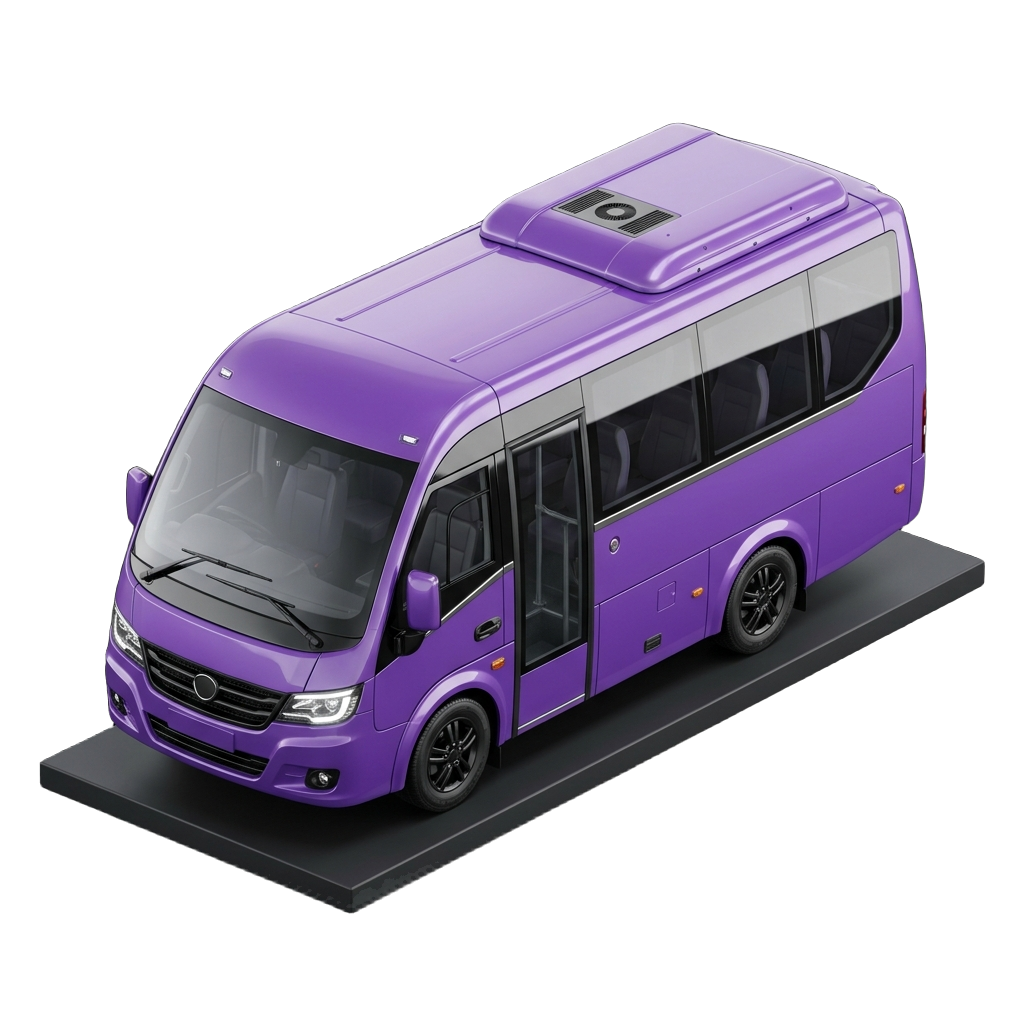
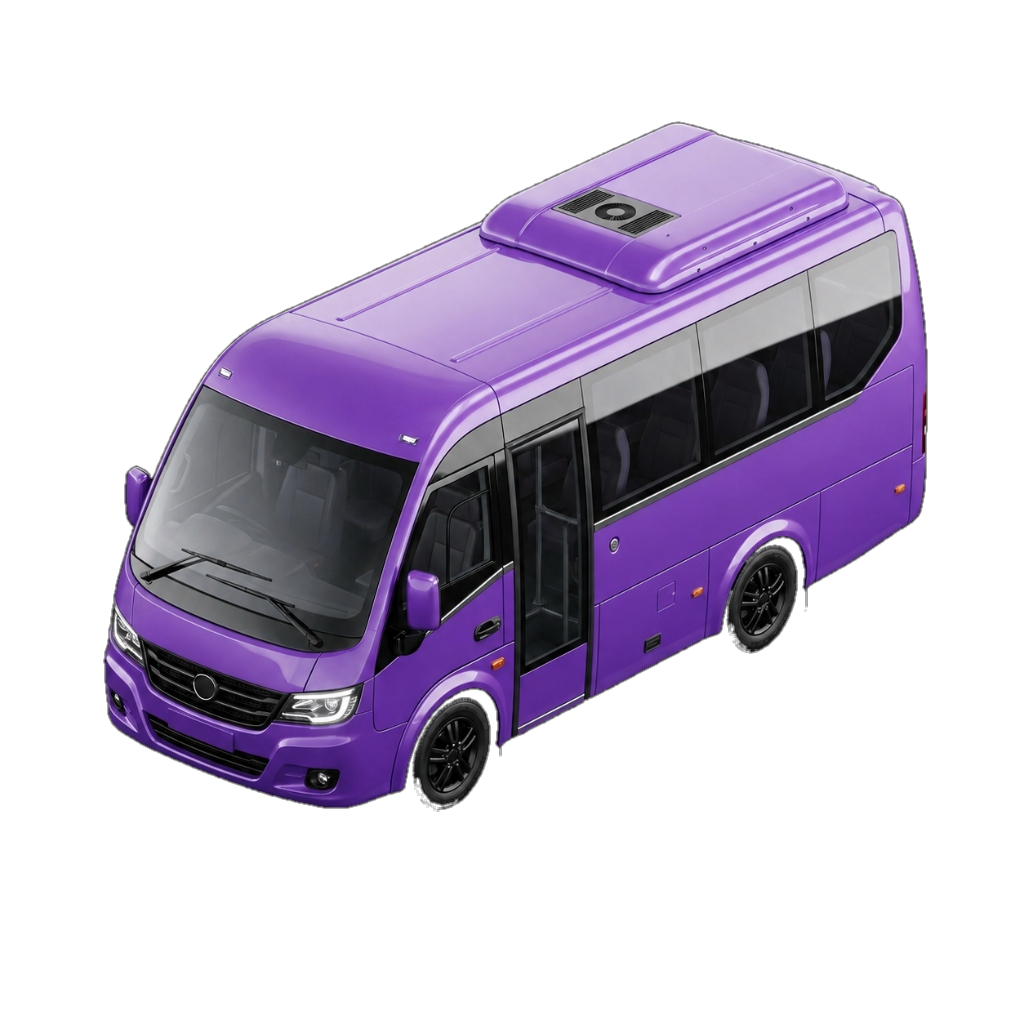
feat: update minibus image, premium full-screen loader, loading GIF, mobile layout, and contact details

diff --git a/src/shared/ui/Loader.tsx b/src/shared/ui/Loader.tsx
@@ -1,5 +1,6 @@
 import * as React from 'react';
 import { cn } from '../utils/cn';
+import appLoaderCar from '../../assets/app_loader_car.png';
 
 export interface LoaderProps {
   size?: 'sm' | 'md' | 'lg';
@@ -27,8 +28,84 @@ export const Loader: React.FC<LoaderProps> = ({
     );
   }
 
-  // Otherwise, we return null to remove the large system loader
-  return null;
+  // Full page loader
+  if (fullPage) {
+    return (
+      <div
+        className={cn(
+          'fixed inset-0 z-50 flex flex-col items-center justify-center bg-black text-white select-none',
+          className
+        )}
+        role="status"
+        aria-label="Loading application"
+        data-testid="full-page-loader"
+      >
+        {/* Ambient background glow matching the red car outline */}
+        <div className="absolute inset-0 overflow-hidden pointer-events-none">
+          <div className="absolute top-1/2 left-1/2 -translate-x-1/2 -translate-y-1/2 w-[500px] h-[500px] rounded-full bg-red-500/5 blur-[120px] animate-pulse duration-[3000ms]" />
+          <div className="absolute top-1/2 left-1/2 -translate-x-1/2 -translate-y-1/2 w-[300px] h-[300px] rounded-full bg-brand-500/5 blur-[80px]" />
+        </div>
+
+        {/* Loader content container */}
+        <div className="relative z-10 flex flex-col items-center max-w-sm px-6 text-center space-y-8">
+          {/* Glowing/pulsing car silhouette */}
+          <div className="relative w-72 h-40 flex items-center justify-center">
+            {/* Ambient red pulse shadow behind the car */}
+            <div className="absolute inset-x-4 inset-y-8 bg-red-500/10 rounded-full blur-3xl animate-pulse duration-[2000ms]" />
+            
+            {/* The car image */}
+            <img
+              src={appLoaderCar}
+              alt="Strive Wheels Loading"
+              className="relative w-full h-auto object-contain animate-pulse duration-1000"
+            />
+          </div>
+
+          {/* Loading information */}
+          <div className="space-y-2">
+            <h2 className="text-xl font-extrabold tracking-[0.2em] text-transparent bg-clip-text bg-gradient-to-r from-white via-slate-100 to-white uppercase">
+              Strive Wheels
+            </h2>
+            <div className="flex items-center justify-center gap-1.5 text-xs text-red-500 font-semibold tracking-[0.15em] uppercase">
+              <span className="inline-block w-1.5 h-1.5 rounded-full bg-red-500 animate-ping" />
+              Redefining Corporate Mobility
+            </div>
+          </div>
+
+          {/* Sleek, thin progress loader bar */}
+          <div className="w-48 h-1 bg-slate-900 rounded-full overflow-hidden relative">
+            <div className="absolute top-0 bottom-0 left-0 w-full bg-gradient-to-r from-transparent via-red-500 to-transparent rounded-full animate-loading-bar" />
+          </div>
+        </div>
+      </div>
+    );
+  }
+
+  // Large standard/inline loader (if fullPage is false but size is md/lg)
+  return (
+    <div
+      className={cn(
+        'flex flex-col items-center justify-center p-8 space-y-4',
+        className
+      )}
+      role="status"
+      aria-label="Loading content"
+      data-testid="inline-loader"
+    >
+      <div className="relative w-36 h-20 flex items-center justify-center">
+        <div className="absolute inset-0 bg-red-500/5 rounded-full blur-xl animate-pulse" />
+        <img
+          src={appLoaderCar}
+          alt="Loading"
+          className="relative w-full h-auto object-contain animate-pulse"
+        />
+      </div>
+      <div className="w-24 h-1 bg-slate-900 rounded-full overflow-hidden relative">
+        <div className="absolute top-0 bottom-0 left-0 w-full bg-red-500 rounded-full animate-loading-bar" />
+      </div>
+    </div>
+  );
 };
 
 export default Loader;
+

diff --git a/src/features/home/components/FleetServices.tsx b/src/features/home/components/FleetServices.tsx
@@ -230,41 +230,7 @@ const MolecularCanvas: React.FC<{ color: string }> = ({ color }) => {
   );
 };
 
-/* ─────────────────────────────────────────────────────────────
-   Sidebar Navigation Dots
-───────────────────────────────────────────────────────────── */
-const SideNav: React.FC<{ activeIdx: number; count: number; onDot: (i: number) => void }> = ({
-  activeIdx,
-  count,
-  onDot,
-}) => (
-  <div className="fixed right-6 top-1/2 -translate-y-1/2 z-50 flex flex-col items-center gap-3 hidden lg:flex">
-    {Array.from({ length: count }).map((_, i) => {
-      const svc  = fleetServices[i];
-      const isAc = i === activeIdx;
-      return (
-        <button
-          key={i}
-          onClick={() => onDot(i)}
-          title={svc.title}
-          className="relative flex items-center justify-center transition-all duration-300"
-          style={{ width: 14, height: 14 }}
-        >
-          <span
-            className="rounded-full transition-all duration-300"
-            style={{
-              width:  isAc ? 12 : 6,
-              height: isAc ? 12 : 6,
-              background: isAc ? svc.accentHex : '#475569',
-              boxShadow: isAc ? `0 0 8px ${svc.accentHex}` : 'none',
-              display: 'block',
-            }}
-          />
-        </button>
-      );
-    })}
-  </div>
-);
+
 
 /* ─────────────────────────────────────────────────────────────
    Single Service Screen
@@ -293,8 +259,7 @@ const ServiceScreen = React.forwardRef<
   return (
     <div
       ref={innerRef}
-      className="relative flex items-center bg-slate-950 overflow-hidden"
-      style={{ height: '100vh' }}
+      className="relative flex items-center bg-slate-950 overflow-hidden py-16 lg:py-0 min-h-screen lg:h-screen"
     >
       {/* ── Molecular canvas ── */}
       <MolecularCanvas color={service.accentHex} />
@@ -341,7 +306,7 @@ const ServiceScreen = React.forwardRef<
 
       {/* ── Content ── */}
       <div className="relative z-10 w-full max-w-7xl mx-auto px-6 lg:px-12 pt-20 lg:pt-0">
-        <div className={`flex flex-col lg:flex-row items-center gap-10 lg:gap-20 ${isEven ? '' : 'lg:flex-row-reverse'}`}>
+        <div className={`flex flex-col-reverse lg:flex-row items-center gap-10 lg:gap-20 ${isEven ? '' : 'lg:flex-row-reverse'}`}>
 
           {/* TEXT */}
           <div
@@ -440,7 +405,7 @@ const ServiceScreen = React.forwardRef<
       {!isLast && (
         <button
           onClick={onNext}
-          className="absolute bottom-6 left-1/2 -translate-x-1/2 flex flex-col items-center gap-1 opacity-40 hover:opacity-80 transition-opacity"
+          className="absolute bottom-6 left-1/2 -translate-x-1/2 hidden lg:flex flex-col items-center gap-1 opacity-40 hover:opacity-80 transition-opacity"
         >
           <span className="text-[10px] text-slate-400 tracking-widest uppercase">Next</span>
           <ChevronDown className="h-4 w-4 text-slate-400 animate-bounce" />
@@ -456,24 +421,7 @@ ServiceScreen.displayName = 'ServiceScreen';
 ───────────────────────────────────────────────────────────── */
 export const FleetServices: React.FC = () => {
   const slideRefs = React.useRef<(HTMLDivElement | null)[]>([]);
-  const [activeIdx, setActiveIdx] = React.useState(0);
 
-  /* Track active slide using global window scroll */
-  React.useEffect(() => {
-    const onScroll = () => {
-      const mid = window.scrollY + window.innerHeight / 2;
-      let closest = 0;
-      slideRefs.current.forEach((el, i) => {
-        if (!el) return;
-        const top = el.getBoundingClientRect().top + window.scrollY;
-        const bot = top + el.offsetHeight;
-        if (mid >= top && mid < bot) closest = i;
-      });
-      setActiveIdx(closest);
-    };
-    window.addEventListener('scroll', onScroll, { passive: true });
-    return () => window.removeEventListener('scroll', onScroll);
-  }, []);
 
   const scrollTo = (idx: number) => {
     const el = slideRefs.current[idx];
@@ -483,8 +431,6 @@ export const FleetServices: React.FC = () => {
 
   return (
     <>
-      {/* Side navigation dots — fixed to viewport */}
-      <SideNav activeIdx={activeIdx} count={fleetServices.length} onDot={scrollTo} />
 
       <section
         id="fleet-services"

diff --git a/src/features/home/components/BookingSearchForm.tsx b/src/features/home/components/BookingSearchForm.tsx
@@ -2,7 +2,7 @@ import * as React from 'react';
 import { useForm } from 'react-hook-form';
 import { zodResolver } from '@hookform/resolvers/zod';
 import * as z from 'zod';
-import { MapPin, Calendar, Clock, Search, Check, Bus, Car, ChevronLeft, ChevronDown } from 'lucide-react';
+import { MapPin, Calendar, Clock, Search, Check, Bus, Car, ChevronRight, ChevronDown } from 'lucide-react';
 import { Card } from '../../../shared/ui/Card';
 import { Button } from '../../../shared/ui/Button';
 import { cn } from '../../../shared/utils/cn';
@@ -10,7 +10,7 @@ import { cn } from '../../../shared/utils/cn';
 const bookingSchema = z.object({
   pickupLocation: z.string().min(2, 'Pick-up location is required'),
   dropLocation: z.string().min(2, 'Drop-off location is required'),
-  pickupDate: z.string().min(1, 'Pick-up date is required'),
+  pickupDate: z.string().min(1, 'date is required'),
   pickupTime: z.string().min(1, 'Pick-up time is required'),
   rideType: z.string(),
   vehicleType: z.string(),
@@ -110,7 +110,7 @@ export const BookingSearchForm: React.FC = () => {
         </div>
 
         <form onSubmit={handleSubmit(onSubmit)} noValidate className="space-y-6">
-          <div className="grid grid-cols-1 md:grid-cols-2 lg:grid-cols-4 gap-6 items-end">
+          <div className="grid grid-cols-1 md:grid-cols-2 lg:grid-cols-3 gap-6 items-end">
             {/* Pick-up Location */}
             <div className="flex flex-col gap-1.5">
               <label
@@ -161,7 +161,7 @@ export const BookingSearchForm: React.FC = () => {
               )}
             </div>
 
-            {/* Pick-Up Date & Time */}
+            {/* Date & Time */}
             <div className="grid grid-cols-2 gap-4">
               <div className="flex flex-col gap-1.5">
                 <label
@@ -169,7 +169,7 @@ export const BookingSearchForm: React.FC = () => {
                   className="text-xs font-semibold uppercase tracking-wider text-slate-400 flex items-center gap-1.5"
                 >
                   <Calendar className="h-3.5 w-3.5 text-brand-500" />
-                  {activeRideType === 'Corporate Sync' ? 'Start Date' : 'Pick-Up Date'}
+                  {activeRideType === 'Corporate Sync' ? 'Start Date' : 'Date'}
                 </label>
                 <input
                   id="pickupDate"
@@ -225,7 +225,7 @@ export const BookingSearchForm: React.FC = () => {
 
                 {/* Main Dropdown Popover */}
                 {isOpen && (
-                  <div className="absolute left-0 mt-2 w-64 rounded-lg border border-slate-800 bg-slate-950/95 backdrop-blur-md py-1 shadow-2xl z-50 text-sm">
+                  <div className="absolute left-0 bottom-full mb-2 w-full min-w-[240px] md:w-64 md:max-h-none max-h-[300px] md:overflow-visible overflow-y-auto rounded-lg border border-slate-800 bg-slate-950 py-1 shadow-2xl z-50 text-sm">
                     {/* Header */}
                     <div className="px-3 py-1.5 text-xs font-semibold text-slate-500 uppercase tracking-wider border-b border-slate-900 mb-1">
                       Choose Vehicle Class:
@@ -262,12 +262,12 @@ export const BookingSearchForm: React.FC = () => {
                         )}
                       >
                         <span>Tempo Traveler</span>
-                        <ChevronLeft className="h-4 w-4 text-slate-500" />
+                        <ChevronRight className="h-4 w-4 text-slate-500" />
                       </button>
 
                       {/* Sub-menu (Flyout on desktop, Accordion on mobile) */}
                       {isSubOpen && (
-                        <div className="absolute top-0 right-full mr-1 w-60 rounded-lg border border-slate-800 bg-slate-950/95 backdrop-blur-md py-1 shadow-2xl z-50 transition-all duration-200">
+                        <div className="transition-all duration-200 z-50 text-sm md:absolute md:top-0 md:left-full md:ml-1 md:w-60 md:rounded-lg md:border md:border-slate-800 md:bg-slate-950 md:py-1 md:shadow-2xl w-full relative bg-slate-900/40 border-none shadow-none rounded-none py-0 pl-2">
                           {['12', '13', '14', '15', '16'].map((seats) => {
                             const val = `Tempo Traveler with ${seats} seater`;
                             const isSelected = watch('vehicleType') === val;
@@ -285,7 +285,7 @@ export const BookingSearchForm: React.FC = () => {
                                   isSelected && "bg-brand-500 text-slate-950 font-bold"
                                 )}
                               >
-                                {val}
+                                {seats} Seater
                               </button>
                             );
                           })}

diff --git a/src/features/home/components/ContactSection.tsx b/src/features/home/components/ContactSection.tsx
@@ -94,8 +94,8 @@ export const ContactSection: React.FC = () => {
                 </div>
                 <div className="space-y-1">
                   <h4 className="text-sm font-bold text-white uppercase tracking-wider">Operational Hours</h4>
-                  <p className="text-xs text-slate-400">24/7 Client Shift Support</p>
-                  <p className="text-[10px] text-slate-500 font-semibold">Office: 09:00 AM - 06:00 PM</p>
+                  <p className="text-xs text-slate-400">24/7 Call Support</p>
+                  <p className="text-[10px] text-slate-500 font-semibold">Office: 08:00 AM - 08:00 PM (08-08)</p>
                 </div>
               </div>
 
@@ -107,7 +107,7 @@ export const ContactSection: React.FC = () => {
                 <div className="space-y-1">
                   <h4 className="text-sm font-bold text-white uppercase tracking-wider">Enterprise Helpline</h4>
                   <p className="text-xs text-slate-400 font-semibold hover:text-white transition-colors">
-                    <a href="tel:[phone redacted]">[phone redacted]</a>
+                    <a href="tel:[phone redacted]">[phone redacted]</a>
                   </p>
                   <p className="text-[10px] text-slate-500">Corporate accounts and custom leases</p>
                 </div>
@@ -120,8 +120,9 @@ export const ContactSection: React.FC = () => {
                 </div>
                 <div className="space-y-1">
                   <h4 className="text-sm font-bold text-white uppercase tracking-wider">Official Email</h4>
-                  <p className="text-xs text-slate-400 font-semibold hover:text-white transition-colors">
-                    <a href="mailto:[email redacted]">[email redacted]</a>
+                  <p className="text-xs text-slate-400 font-semibold hover:text-white transition-colors flex flex-col gap-1">
+                    <a href="mailto:[email redacted]">[email redacted]</a>
+                    <a href="mailto:[email redacted]">[email redacted]</a>
                   </p>
                   <p className="text-[10px] text-slate-500">Response within 2 hours guaranteed</p>
                 </div>
@@ -136,8 +137,7 @@ export const ContactSection: React.FC = () => {
                   <h4 className="text-sm font-bold text-white uppercase tracking-wider">Headquarters</h4>
                   <p className="text-xs text-slate-400 leading-relaxed">
                     Strive Mobility Solutions Pvt. Ltd.<br />
-                    Financial District, Gachibowli,<br />
-                    Hyderabad, Telangana - 500032
+                    Bangalore, Karnataka
                   </p>
                 </div>
               </div>
@@ -236,7 +236,7 @@ export const ContactSection: React.FC = () => {
                           type="tel"
                           value={formData.phone}
                           onChange={handleChange}
-                          placeholder="[phone redacted]"
+                          placeholder="[phone redacted]"
                           className="flex h-11 w-full rounded-lg border border-slate-800 bg-slate-950/60 px-3 py-2 text-sm text-slate-100 placeholder:text-slate-600 focus-visible:outline-none focus-visible:border-slate-700"
                         />
                       </div>

diff --git a/src/styles/index.css b/src/styles/index.css
@@ -21,3 +21,18 @@
 ::-webkit-scrollbar-thumb {
   @apply bg-slate-800 rounded-full hover:bg-brand-500/50 transition-colors;
 }
+
+/* Premium full-screen loader animations */
+@keyframes loading-bar {
+  0% {
+    transform: translateX(-100%);
+  }
+  100% {
+    transform: translateX(100%);
+  }
+}
+
+.animate-loading-bar {
+  animation: loading-bar 1.8s cubic-bezier(0.4, 0, 0.2, 1) infinite;
+}
+

diff --git a/src/features/home/components/Hero.tsx b/src/features/home/components/Hero.tsx
@@ -149,7 +149,7 @@ export const Hero: React.FC = () => {
       {/* ════════════════════════════════════
           FOREGROUND CONTENT (overlay)
       ════════════════════════════════════ */}
-      <div className="relative z-10 w-full max-w-7xl mx-auto px-4 sm:px-6 lg:px-8 py-14 flex flex-col items-start space-y-8">
+      <div className="relative z-20 w-full max-w-7xl mx-auto px-4 sm:px-6 lg:px-8 py-14 flex flex-col items-start space-y-8">
 
         {/* Badge */}
         <motion.div
@@ -222,7 +222,7 @@ export const Hero: React.FC = () => {
           initial={{ opacity: 0, y: 30 }}
           animate={{ opacity: 1, y: 0 }}
           transition={{ duration: 0.6, delay: 0.45 }}
-          className="w-full"
+          className="w-full relative z-20"
         >
           <BookingSearchForm />
         </motion.div>

diff --git a/src/tests/features/home/BookingSearchForm.test.tsx b/src/tests/features/home/BookingSearchForm.test.tsx
@@ -37,7 +37,7 @@ describe('BookingSearchForm Component', () => {
 
     const pickupInput = screen.getByLabelText(/pick-up location/i);
     const dropInput = screen.getByLabelText(/drop-off location/i);
-    const pickupDateInput = screen.getByLabelText(/pick-up date/i);
+    const pickupDateInput = screen.getByLabelText(/^date$/i);
     const dropDateInput = screen.getByLabelText(/return date/i);
     const submitBtn = screen.getByTestId('search-submit');
 